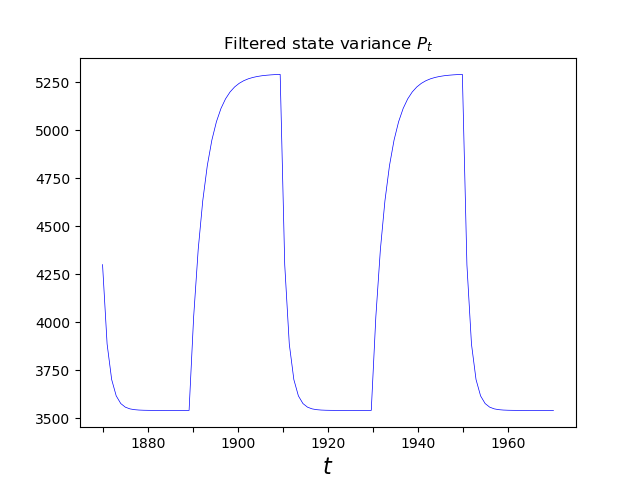
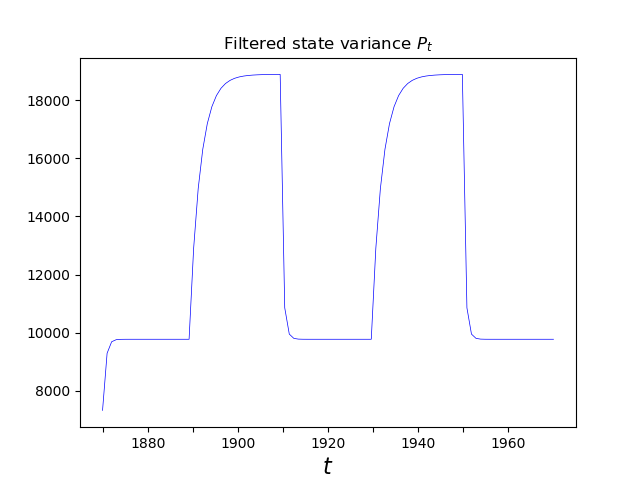
practically finished

diff --git a/Assignment 2/22.py b/Assignment 2/22.py
@@ -1,6 +1,11 @@
 import numpy as np
 import math
+from scipy.stats import gaussian_kde
+from scipy.stats import kurtosis
+from scipy.stats import skew
 from scipy.optimize import minimize
+import seaborn as sns
+import statsmodels.api as sm
 import matplotlib.pyplot as plt
 
 class LocalLevel:
@@ -18,6 +23,8 @@ class LocalLevel:
 
         self.data = [i.strip().split() for i in open("DK-data/Nile.dat").readlines()]
         self.data.pop(0)
+
+        self.x = np.linspace(0,10,self.n)
 
     def mu(self):
         mu1 = np.random.normal(self.a1, math.sqrt(self.p1))
@@ -112,6 +119,56 @@ class LocalLevel:
 
         return varepshat
 
+    def histogram(self, vareps, vareta):
+        plt.figure()
+        plt.hist(vareps, 20, rwidth=0.85)
+        plt.title('Histogram for ' + r'$\hat{\sigma}_{\varepsilon}^{2}$ ' + \
+        ' with ' + r'$\sigma_{\varepsilon}^{2}$ = ' + str(self.vareps) + ', T = ' + str(self.Tsize),fontsize=12)
+        plt.draw()
+
+        plt.figure()
+        plt.hist(vareta, 20, rwidth=0.85)
+        plt.title('Histogram for ' + r'$\hat{\sigma}_{\eta}^{2}$ ' + \
+        ' with ' + r'$\sigma_{\eta}^{2}$ = ' + str(self.vareta) + ', T = ' + str(self.Tsize),fontsize=12)
+        plt.draw()
+
+    def bias(self, vareps, vareta):
+
+        for i in range(self.n):
+            vareps[i] = vareps[i] - self.vareps
+            vareta[i] = vareta[i] - self.vareta
+
+        plt.figure()
+        plt.ylim(bottom=-self.vareps, top=self.vareps)
+        plt.plot(self.x, vareps, color="blue", linewidth=0.5)
+        plt.axhline(y=0, color='k', linewidth=0.5)
+        plt.xlabel(r'$i$',fontsize=16)
+        plt.title('Bias of ' + r'$\hat{\sigma}_{\varepsilon}^{2}$' + \
+        ' with ' + r'$\sigma_{\varepsilon}^{2}$ = ' + str(self.vareps) + ', T = ' + str(self.Tsize),fontsize=12)
+        plt.draw()
+
+        plt.figure()
+        plt.ylim(bottom=-self.vareta, top=10*self.vareta)
+        plt.plot(self.x, vareta, color="blue", linewidth=0.5)
+        plt.axhline(y=0, color='k', linewidth=0.5)
+        plt.xlabel(r'$i$',fontsize=16)
+        plt.title('Bias of ' + r'$\hat{\sigma}_{\eta}^{2}$ ' + \
+        ' with ' + r'$\sigma_{\eta}^{2}$ = ' + str(self.vareta) + ', T = ' + str(self.Tsize),fontsize=12)
+        plt.draw()
+
+    def samplevariance(self, vareps, vareta):
+        samplevareps = np.var(vareps, ddof=1)
+        samplevareta = np.var(vareta, ddof=1)
+
+        print("Sample variance of vareps: {}".format(samplevareps))
+        print("Sample variance of vareta: {}".format(samplevareta))
+
+    def skewnessKurtosis(self, vareps, vareta):
+        print('Skewness of vareps: {}'.format(skew(vareps)))
+        print('Skewness of vareta: {}'.format(skew(vareta)))
+        print('Kurtosis of vareps: {}'.format(kurtosis(vareps)))
+        print('Kurtosis of vareta: {}'.format(kurtosis(vareta)))
+
 
 def main():
     localLevel = LocalLevel()
@@ -119,17 +176,23 @@ def main():
     y, mu = localLevel.sim()
 
     # vareps, q
-    varepshat = [0 for i in range(localLevel.n)]
-    varetahat = [0 for i in range(localLevel.n)]
-    qhat = [0 for i in range(localLevel.n)]
-    bnd = ((1e-6, 10),)
+    varepshat = np.zeros(localLevel.n)
+    varetahat = np.zeros(localLevel.n)
+    qhat = np.zeros(localLevel.n)
+    bnd = ((1e-6, None),)
 
     for i in range(localLevel.n):
-        qhat[i] = minimize(lambda q: -localLevel.Ldc(y[i], q), 0.0001, bounds=bnd).x[0]
+        qhat[i] = minimize(lambda q: -localLevel.Ldc(y[i], q), 1e-6, bounds=bnd).x[0]
         varepshat[i] = localLevel.varepshat(y[i], qhat[i])
         varetahat[i] = qhat[i]*varepshat[i]
 
-        print("varepshat: {}, varetahat: {}".format(varepshat[i], varetahat[i]))
+    print("AVG vareps: {}, AVG vareta: {}".format(np.mean(varepshat), np.mean(varetahat)))
+
+    localLevel.histogram(varepshat, varetahat)
+    #localLevel.bias(varepshat, varetahat)
+    #localLevel.samplevariance(varepshat, varetahat)
+    #localLevel.skewnessKurtosis(varepshat, varetahat)
+    plt.show()
 
 
 if __name__ == "__main__":

diff --git a/Assignment 2/21.py b/Assignment 2/21.py
@@ -120,6 +120,32 @@ class Nile:
 
         return varepshat
 
+    def MLEar1plusnoise(self, params):
+        phi, vareps, vareta = params
+        v = np.zeros(self.n)
+        f = np.zeros(self.n)
+        k = np.zeros(self.n)
+        a = np.zeros(self.n + 1)
+        P = np.zeros(self.n + 1)
+
+        a[0] = 0
+        P[0] = vareta/(1 - phi**2)
+
+        for t in range(self.n):
+            v[t] = self.y[t] - a[t]
+            f[t] = P[t] + vareps
+            k[t] = phi * P[t]/f[t]
+
+            a[t+1] = phi * a[t] + k[t]*v[t]
+            P[t+1] = phi**2 * P[t] + vareta - k[t]**2 * f[t]
+
+        MLE = -(self.n/2)*np.log(2*np.pi)
+
+        for t in range(self.n):
+            MLE += -(1/2) * (np.log(f[t]) + (v[t]**2)/f[t])
+
+        return -MLE
+
     def KalmanFilter(self, y):
         self.v = np.zeros(self.n)
         self.f = np.zeros(self.n)
@@ -322,7 +348,7 @@ class Nile:
 
         for t in range(self.n):
             self.ycross[t] = self.alphacross[t] + epscross[t]
-            self.alphacross[t + 1] = self.alphacross[t] + etacross[t]
+            self.alphacross[t + 1] = self.T * self.alphacross[t] + etacross[t]
 
     def KalmanFilterSim(self, y):
         self.vsim = np.zeros(self.n)
@@ -646,11 +672,23 @@ def main():
     nile = Nile()
 
     """ Compute parameter estimates """
-    bnd = ((1e-6, 10),)
-    qhat = minimize(lambda q: -nile.Ldc(q), 0.0001, bounds=bnd).x[0]
-    nile.vareps = nile.varepshat(qhat)
-    nile.vareta = qhat*nile.vareps
 
+    if nile.T == 1:
+        bnd = ((1e-6, None),)
+        qhat = minimize(lambda q: -nile.Ldc(q), 1e-6, bounds=bnd).x[0]
+        nile.vareps = nile.varepshat(qhat)
+        nile.vareta = qhat*nile.vareps
+
+        print("Estimated through MLE")
+        print("vareps: {}, vareta: {}".format(nile.vareps, nile.vareta))
+    else:
+        bnd = ((-0.99999, 0.99999),(1e-6, None), (1e-6, None))
+        estimates = minimize(nile.MLEar1plusnoise, (0, 1e-6, 1e-6), bounds=bnd).x
+
+        [nile.T, nile.vareps, nile.vareta] = estimates
+
+        print("Estimated through MLE")
+        print("phi: {}, vareps: {}, vareta: {}".format(nile.T, nile.vareps, nile.vareta))
     nile.KalmanFilter(nile.y)
     #nile.fig1()
 
@@ -666,27 +704,27 @@ def main():
     nile.alphatilde()
     nile.epstilde()
     nile.etatilde()
-    #nile.fig4()
+    nile.fig4()
 
-    #nile.treatAsMissing()
-    #nile.KalmanFilter(nile.y)
-    #nile.KalmanSmoother()
+    nile.treatAsMissing()
+    nile.KalmanFilter(nile.y)
+    nile.KalmanSmoother()
     #nile.fig5()
 
     nile.resetY()
     nile.extendData()
     nile.KalmanFilter(nile.y)
-    nile.fig6()
+    #nile.fig6()
 
-    #nile = Nile()
-    #nile.KalmanFilter(nile.y)
-    #nile.standardResidual()
+    nile = Nile()
+    nile.KalmanFilter(nile.y)
+    nile.standardResidual()
     #nile.fig7()
 
-    #nile.KalmanSmoother(nile.y)
-    #nile.DisturbanceSmoother()
-    #nile.mustar()
-    #nile.rstar()
+    nile.KalmanSmoother()
+    nile.DisturbanceSmoother()
+    nile.mustar()
+    nile.rstar()
     #nile.fig8()
 
     plt.show()
